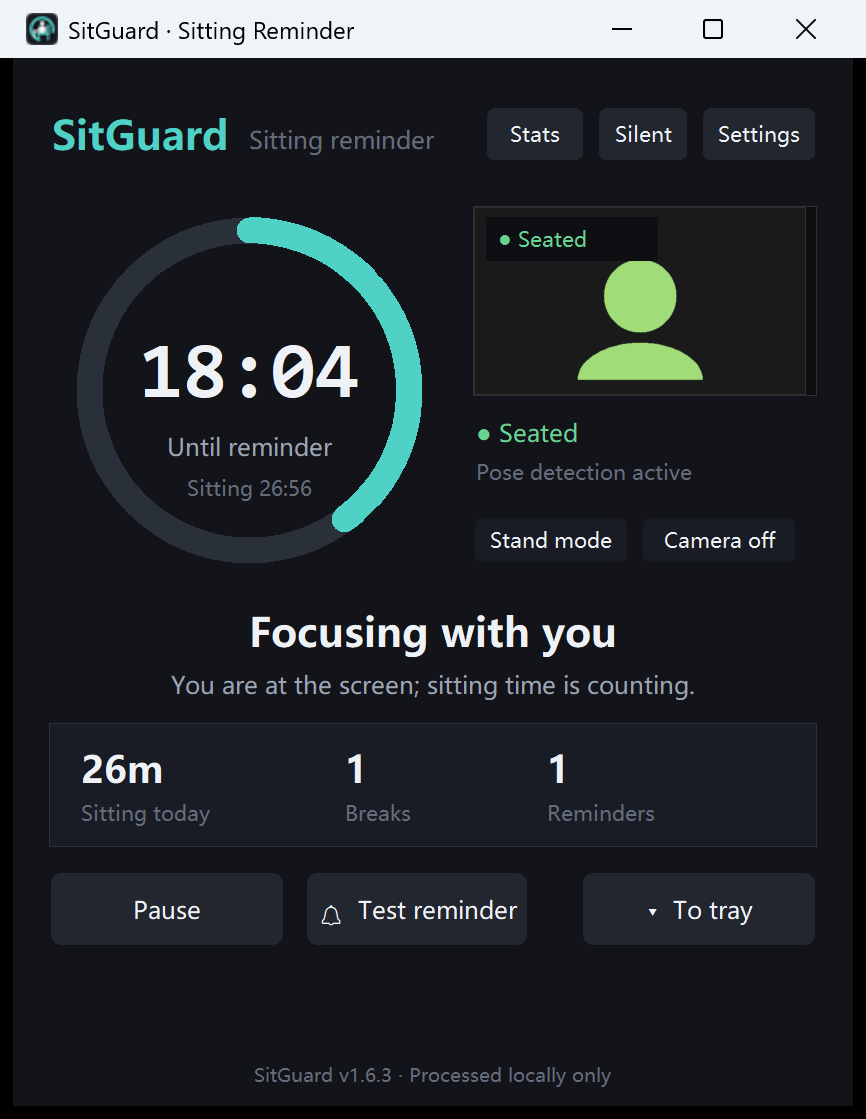
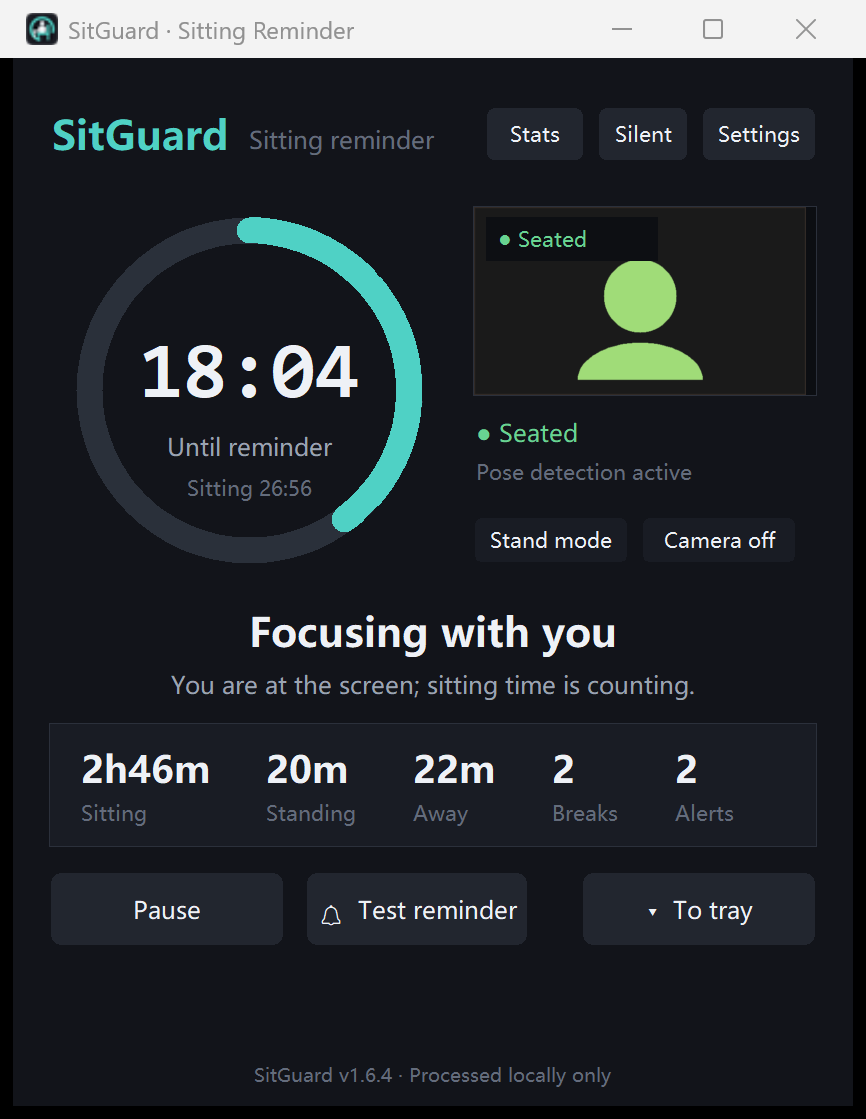
feat: show today's standing and away time on main window
Replace the three-column daily card with five compact columns: sitting, standing, away, breaks and reminders. Sitting/standing/away come from the activity log so they match the history page.

diff --git a/sitguard/i18n.py b/sitguard/i18n.py
@@ -44,9 +44,11 @@ _T = {
     "resume": ("继续监控", "Resume"),
     "test_reminder": ("测试提醒", "Test reminder"),
     "to_tray": ("收进托盘", "To tray"),
-    "stat_sit": ("今日在座", "Sitting today"),
+    "stat_sit": ("今日在座", "Sitting"),
+    "stat_stand": ("今日站立", "Standing"),
+    "stat_away": ("今日离开", "Away"),
     "stat_breaks": ("完成休息", "Breaks"),
-    "stat_reminders": ("提醒次数", "Reminders"),
+    "stat_reminders": ("提醒次数", "Alerts"),
     "stats_title": ("活动统计", "Activity"),
     "stats_sub": ("按天记录坐、站、离开时间", "Sitting, standing and away time by day"),
     "stats_sitting": ("坐", "Sitting"),
@@ -77,8 +79,8 @@ _T = {
     "stats_no_record": ("该日期没有记录", "No record for this date"),
     "stats_bad_date": ("日期格式：YYYY-MM-DD", "Date format: YYYY-MM-DD"),
     "stats_future": ("不能查看未来日期", "Cannot view a future date"),
-    "footer": ("SitGuard v1.6.3 · 画面仅在本机处理",
-               "SitGuard v1.6.3 · Processed locally only"),
+    "footer": ("SitGuard v1.6.4 · 画面仅在本机处理",
+               "SitGuard v1.6.4 · Processed locally only"),
     "stand_mode": ("站立模式", "Stand mode"),
     "sit_down": ("坐下", "Sit down"),
     "stand": ("站立", "Stand"),

diff --git a/sitguard/views.py b/sitguard/views.py
@@ -390,7 +390,10 @@ class MainWindow:
         inner = tk.Frame(card, bg=ui.BG_2)
         inner.pack(fill="x", padx=ui.dp(14), pady=ui.dp(8))
         self.stat_vars = {}
-        for key, title in (("sit", t("stat_sit")), ("breaks", t("stat_breaks")),
+        for key, title in (("sit", t("stat_sit")),
+                           ("stand", t("stat_stand")),
+                           ("away", t("stat_away")),
+                           ("breaks", t("stat_breaks")),
                            ("rem", t("stat_reminders"))):
             col = tk.Frame(inner, bg=ui.BG_2)
             col.pack(side="left", expand=True, fill="x")
@@ -580,7 +583,10 @@ class MainWindow:
             self.btn_stand.configure_text(t("stand_mode"))
 
         stats = snap.stats
-        self.stat_vars["sit"].set(ui.fmt_sit_total(stats.sitting_seconds))
+        totals = self.app.activity.totals_for(date.today().isoformat(), time.time())
+        self.stat_vars["sit"].set(ui.fmt_sit_total(totals.get("sitting", 0)))
+        self.stat_vars["stand"].set(ui.fmt_sit_total(totals.get("standing", 0)))
+        self.stat_vars["away"].set(ui.fmt_sit_total(totals.get("away", 0)))
         self.stat_vars["breaks"].set(t("times", n=stats.breaks))
         self.stat_vars["rem"].set(t("times", n=stats.reminders))
 

diff --git a/sitguard/__init__.py b/sitguard/__init__.py
@@ -1,5 +1,5 @@
 """SitGuard — 久坐提醒（摄像头在场检测）。"""
 
-__version__ = "1.6.3"
+__version__ = "1.6.4"
 APP_NAME = "SitGuard"
 APP_NAME_CN = "久坐提醒"

diff --git a/README_ZH.md b/README_ZH.md
@@ -69,7 +69,7 @@ English UI:
 | 立即关闭 | 「我站起来了」「关闭本次提醒」点一下立即结束，不再卡住 |
 | 离开/站立重置 | 站立或离开超过 3 分钟，久坐计时从 0 重新开始 |
 | 站立目标 | 任意滚动 90 分钟内站立不足 10 分钟，会轻声提醒一次（设置里可关） |
-| 今日统计 | 今日累计在座、完成休息次数、提醒次数 |
+| 今日统计 | 主界面直接显示今日在座、站立、离开、完成休息、提醒次数 |
 | 托盘常驻 | 关闭窗口不退出；托盘菜单可暂停、立即休息、结束休息、今日统计、开关摄像头 |
 | 活动统计 | 每段记录开始/结束时间；当天明细列出几点坐下、站起、离开，附近 7 天平均；无限保留，可按日期查看 |
 | 颜色图例 | 坐=青色，站=橙色，离开=灰色，时间轴与明细同一套颜色 |

diff --git a/README.md b/README.md
@@ -18,6 +18,8 @@ as soon as you stand.
   shoulder position, with an optional two-point calibration for your own
   camera angle and body size.
 - **Smart timing** — only sitting time counts; standing pauses the timer.
+- **At-a-glance today** — the main window shows today's sitting, standing,
+  away, breaks and reminder counts.
 - **45-minute reminder** — full-screen break overlay with a sound alert
   (or sound-only mode), and it re-alerts every 5 minutes until you stand.
 - **Break finishes when you stand** for 10 seconds, leave the frame for
